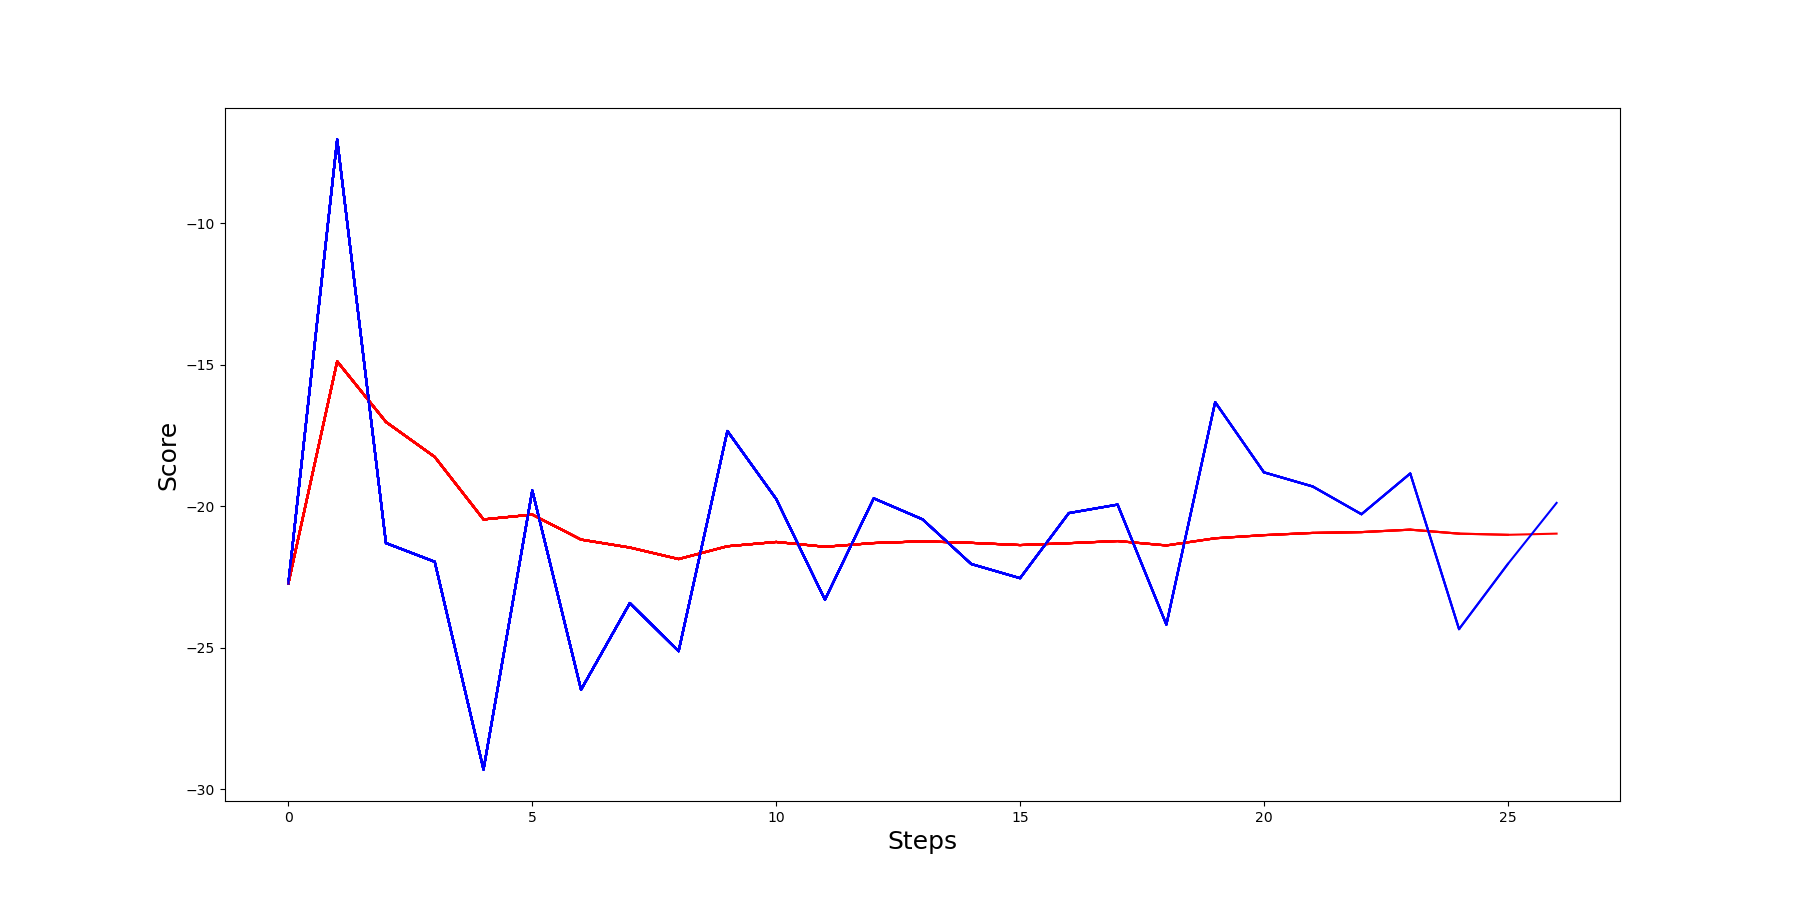
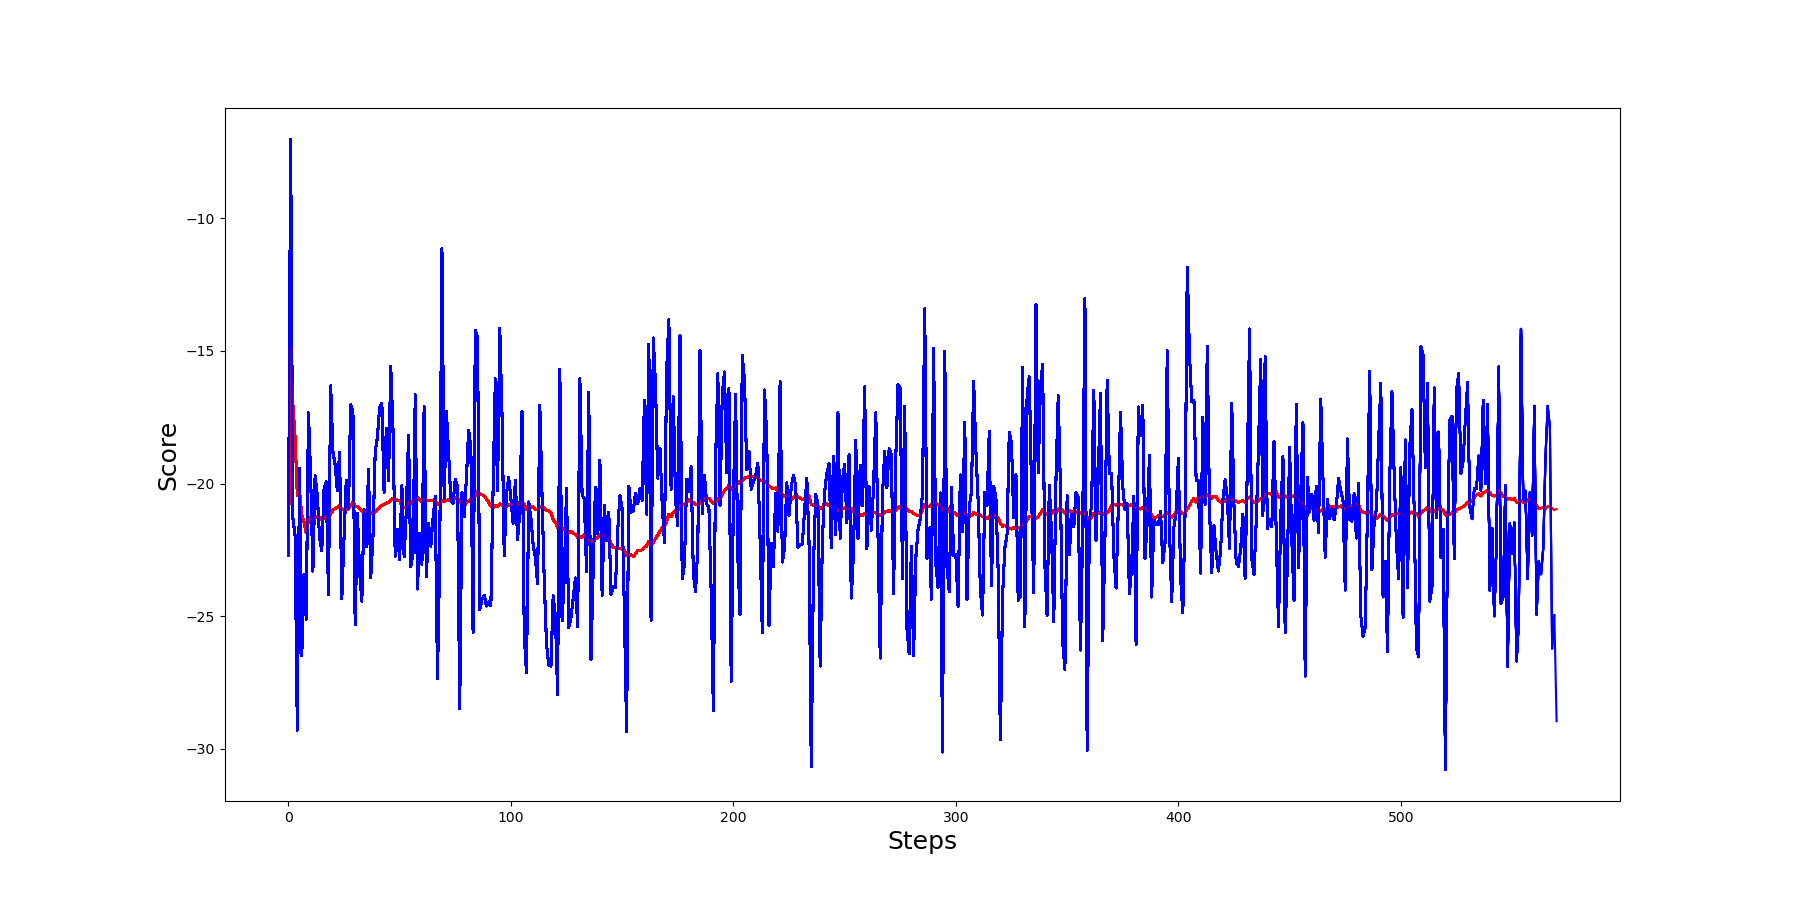
fixed epsilon decay

Changed region(s): [[0.1556, 0.1867, 0.8711, 0.84], [0.4044, 0.9022, 0.4356, 0.9333]]

diff --git a/Models.py b/Models.py
@@ -201,7 +201,7 @@ def logloss(y_true, y_pred):  # policy loss
 def sumofsquares(y_true, y_pred):  # critic loss
         return K.sum(K.square(y_pred - y_true), axis=-1)
 
-def FCTime_distributed_model(self, input_shape=(4,112,1,), action_space=6, dueling=True):
+def FCTime_distributed_model(self, input_shape=(4,112), action_space=6, dueling=True):
         self.network_size = 256
 
         X_input = Input(shape=(4*112,))
@@ -213,43 +213,41 @@ def FCTime_distributed_model(self, input_shape=(4,112,1,), action_space=6, dueli
         const_init = initializers.constant(1e-2)
         X = Reshape(input_shape)(X)
         # X =Conv1D(4,(4),(4),activation="relu",) (X)
-        # X = Conv2D(1, (1,4), strides=(1,1),padding="same",activation="relu", kernel_initializer=x_init,   data_format="channels_first")(X)
-        X = TimeDistributed(Dense(8, kernel_initializer=x_init))(X)  
-        X = TimeDistributed(LeakyReLU(alpha=.1))(X)        
-        X = TimeDistributed(Dense(4, kernel_initializer=x_init))(X)  
-        X = TimeDistributed(LeakyReLU(alpha=.1))(X) 
-        X = Flatten()(X)       
-        X = Dense(256 ,activation="relu",kernel_initializer=const_init,use_bias=True, bias_initializer=truncatedn_init)(X)
-        X = Dense(256, activation="relu", kernel_initializer=const_init,use_bias=True, bias_initializer=truncatedn_init)(X)
+        # X = Conv2D(1, (1,4), strides=(1,1),padding="same",activation="relu", kernel_initializer=x_init,   data_format="channels_first")(X)      
+        X = (Dense(128, kernel_initializer=y_init,))(X)
+        X=  LeakyReLU(alpha=.2)(X)             
+        X = Flatten()(X)   
+        X = (Dense(512, kernel_initializer=y_init,activation="relu",))(X)
+        X = (Dense(256, kernel_initializer=y_init,activation="relu",))(X)                         
         # X = Conv2D(64, 4, strides=(2),padding="valid",activation="elu", kernel_initializer=x_init,   data_format="channels_first")(X)
         # X = Conv2D(128, 4, strides=(2),padding="valid",activation="elu",kernel_initializer=x_init,   data_format="channels_first")(X) 3cnn
         # 'Dense' is the basic form of a neural network layer
-        # Input Layer of state size(4) and Hidden Layer with 512 nodes
-        # X = Dense(512, activation="relu", kernel_initializer=x_init)(X)
+        # # Input Layer of state size(4) and Hidden Layer with 512 nodes
+        # X = Dense(256, activation="relu", kernel_initializer=x_init)(X)
+        # X = Dense(64, activation="relu", kernel_initializer=x_init)(X)
         # # X = Dense(64, activation="relu", kernel_initializer=x_init)(X)
         # X = Dense(256, activation="relu", kernel_initializer=const_init,use_bias=True, bias_initializer=truncatedn_init)(X) 
         # # Hidden layer with 256 nodes 
 
         # # Hidden layer with 64 nodes
         # X = Dense(64, activation="relu", kernel_initializer=truncatedn_init, bias_initializer=const_init)(X)
-
         if dueling:
-            state_value = Dense(1, kernel_initializer=x_init , activation= "softmax")(X)
+            state_value = Dense(1, kernel_initializer=y_init,activation='softmax', )(X)
             state_value = Lambda(lambda s: K.expand_dims(
                 s[:, 0], -1), output_shape=(action_space,))(state_value)
 
             action_advantage = Dense(
-                action_space, kernel_initializer=x_init , activation="linear")(X)
+                action_space, kernel_initializer=y_init,activation='linear',)(X)
             action_advantage = Lambda(lambda a: a[:, :] - K.mean(
                 a[:, :], keepdims=True), output_shape=(action_space,))(action_advantage)
 
             X = Add()([state_value, action_advantage])
         else:
-            # Output Layer with # of actions: 2 nodes (left, right)
+            # Output Layer with # of actions: 6 nodes (left, right)
             X = Dense(action_space, activation="relu",
                       kernel_initializer='he_uniform')(X)
 
-        model = Model(inputs=X_input, outputs=X, name='FCTime_distributed_model')
+        model = Model(inputs=X_input, outputs=X, name='FC_modelv2_')
         model.compile(loss=huber_loss, optimizer=Adam(
             lr=self.learning_rate),  metrics=["accuracy"])
 
@@ -263,37 +261,6 @@ def build_Base(self, input_shape=(4,112,), action_space=6, dueling=True):
         X_input = Input(shape=(4*112,))
         X = X_input
         Y = Reshape(input_shape)(X_input)
-        
-        Z = Reshape((4,112,1))(X_input)
-        # X = Dense(64, kernel_initializer='he_uniform')(X)
-        # X =LeakyReLU(alpha=.6)(X)
-        # X = Dense(128, kernel_initializer='he_uniform')(X)
-        # X =LeakyReLU(alpha=.1)(X)  
-        # X = Conv1D(64, (2),  strides=(1), padding = "valid",
-        #                kernel_initializer='he_uniform')(X)
-        # X = LeakyReLU(alpha=.2)(X) 
-        #     
-         
-        X = Dense(self.network_size/2, 
-                  kernel_initializer='he_uniform')(Y)    
-        X=  LeakyReLU(alpha=.4)(X)               
-        out_a = X# Flatten()(X) 
-
-        X =TimeDistributed(Dense(1, activation="softmax", 
-                  kernel_initializer='he_uniform'))(Z) 
-        X = Reshape((4,112))(X)
-        X = Dense(self.network_size/2,activation="tanh", 
-                  kernel_initializer='he_uniform')(Y)    
-    
-        out_b = X #
-        
-        
-        
-
-        concatenated = concatenate([out_a, out_b])    
-        X = (concatenated) 
-        X = MaxPooling1D(2)(X)
-        X = Flatten()(X)#out_b
         X = Dense(self.network_size*2, 
                   kernel_initializer='he_uniform',activation ="relu")(X)  
         X = Dense(self.network_size, 
@@ -315,7 +282,7 @@ def build_Base(self, input_shape=(4,112,), action_space=6, dueling=True):
             X = Dense(action_space, activation="relu",
                       kernel_initializer='he_uniform')(X)
 
-        model = Model(inputs=X_input, outputs=X, name='Base_model')
+        model = Model(inputs=X_input, outputs=X, name='Base_model-b32')
         model.compile(loss=huber_loss, optimizer=Adam(
             lr=self.learning_rate),  metrics=["accuracy"])
 

diff --git a/DQN_agent.py b/DQN_agent.py
@@ -53,16 +53,17 @@ class DQN:
         self.state_space = state_space
         self.epsilon = 1
         self.gamma = .98
-        self.batch_size =  64
+        self.batch_size = 32
         self.epsilon_min = .1
-        self.epsilon_decay =0.00000025
+        self.epsilon_decay = 0.999
         self.burn_limit = .001
         self.learning_rate = 0.00021
+        self.replay_freq = 1
         self.memory = RingBuf(10000)
         self.optimizer_model = 'RMSProp'
         self.log_data=[]
         if model == None:
-            self.model =  FCTime_distributed_model(self)  # dfault _model
+            self.model =  build_Base(self)  # dfault _model
             # self.target_model = self.build_modelGPU()
         else:
             self.model = model
@@ -84,6 +85,7 @@ class DQN:
 
         if self.memory.__len__() < self.batch_size:
             return
+
         minibatch = random.sample(
             self.memory.data[0:self.memory.__len__()], self.batch_size)
         states = np.array([i[0] for i in minibatch], dtype=float)
@@ -113,7 +115,7 @@ gl_loss = 0
 
 
 def train_dqn(episode,  graphics=True, ch=300,  lchk=0, model=None):
-    loss = []
+    #loss = []
     action_space = 6
     state_space = 4*112
     max_steps = 98*9
@@ -161,7 +163,8 @@ def train_dqn(episode,  graphics=True, ch=300,  lchk=0, model=None):
             agent.remember(state, action, reward, next_state, done)
             state = next_state
 
-            agent.replay()
+            for i in range(agent.replay_freq):
+                agent.replay()
 
             # Add values to Tensorboard
 
